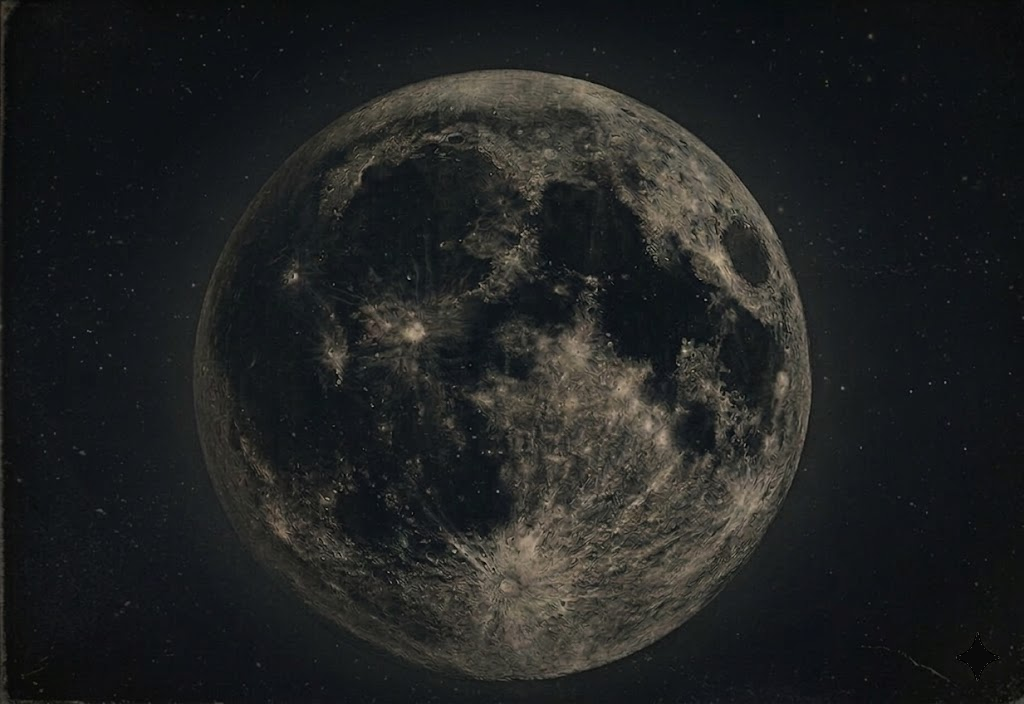
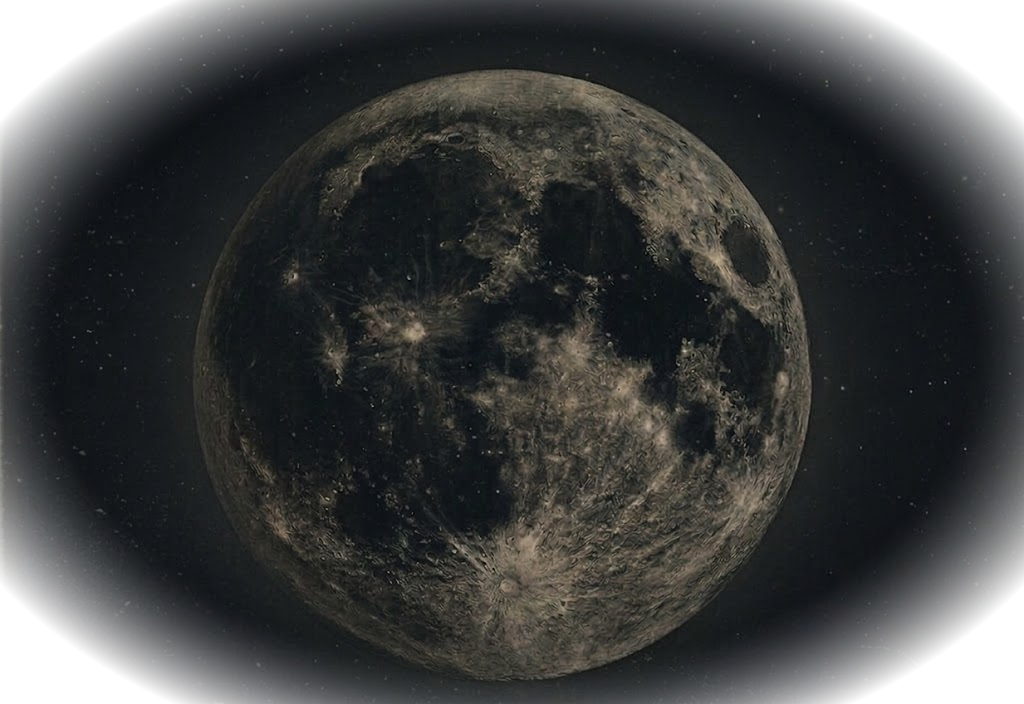
月画像に放射状フェードアウト適用、opacity 0.25→0.5に濃く

Changed region(s): [[0.0, 0.0, 1.0, 1.0]]

diff --git a/css/style.css b/css/style.css
@@ -1011,7 +1011,7 @@ a:hover {
   width: 50vw;
   max-width: 500px;
   height: auto;
-  opacity: 0.25;
+  opacity: 0.5;
   pointer-events: none;
   user-select: none;
 }
